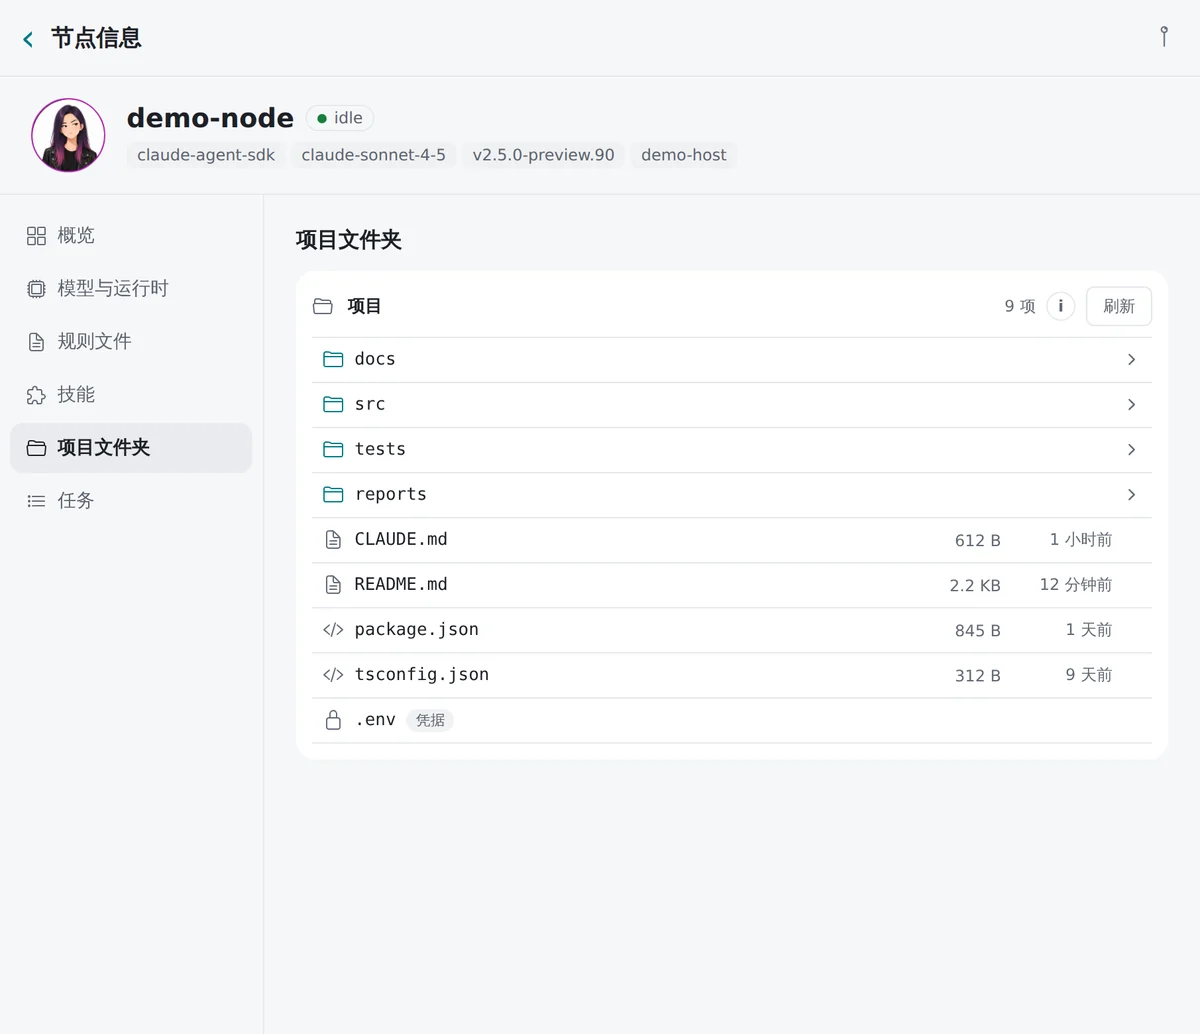
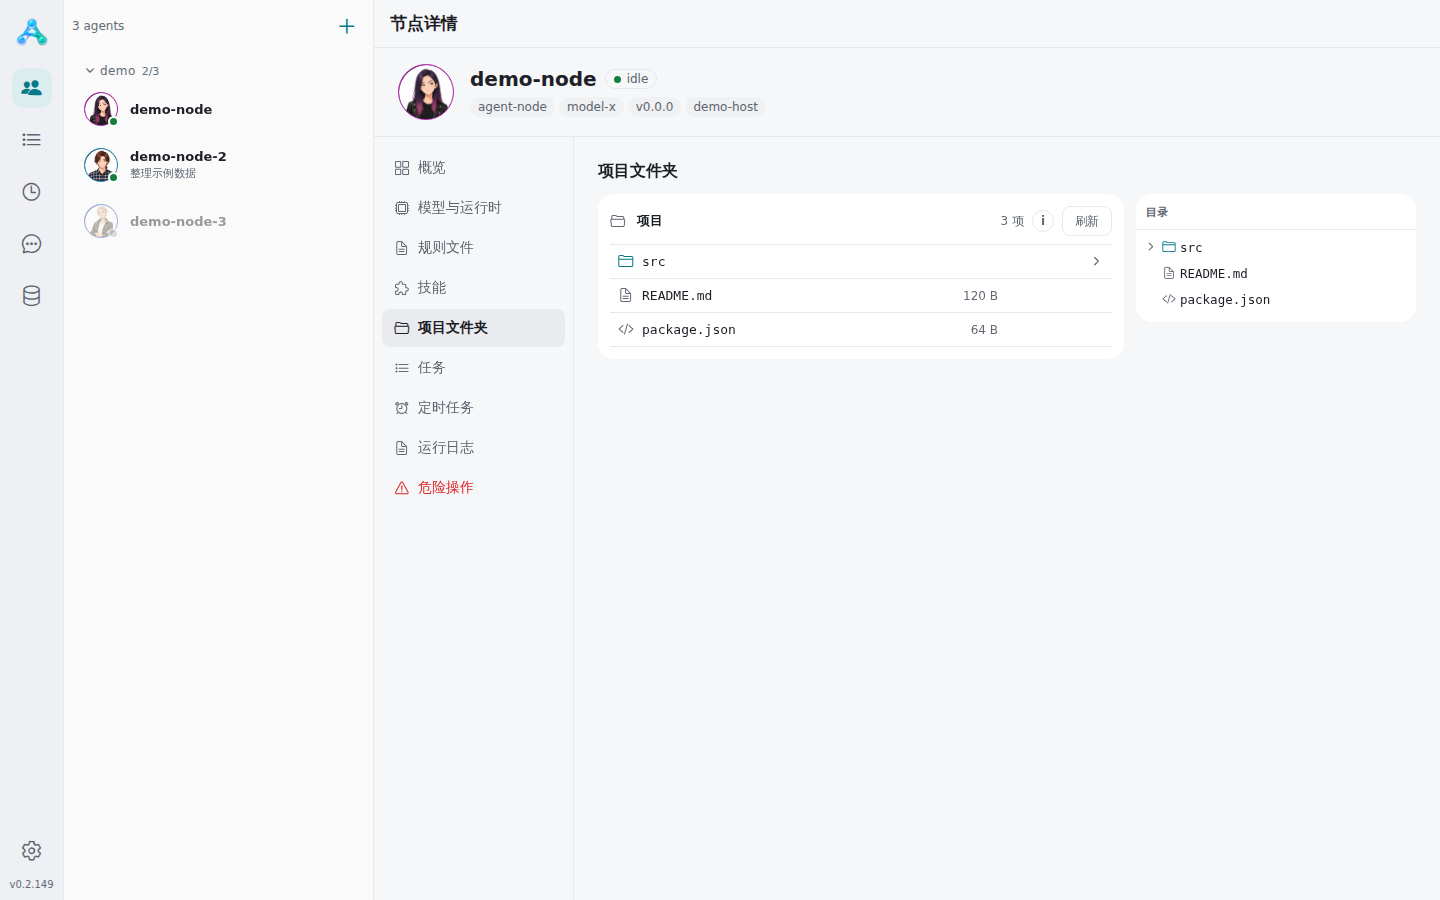
docs(readme): 换成当前桌面截图，并补上任务页
聊天、规则文件、项目文件夹换成当前界面；新增任务看板。只用占位名。

diff --git a/README.md b/README.md
@@ -20,6 +20,8 @@
   <img src="docs/assets/readme/chat-light.webp" width="880" alt="Agent Network 桌面端：左侧是在线 Agent 列表，右侧是与一个节点的对话">
 </picture>
 
+<picture><source media="(prefers-color-scheme: dark)" srcset="docs/assets/readme/tasks-dark.webp"><img src="docs/assets/readme/tasks-light.webp" width="880" alt="桌面端任务页：左侧按项目筛选，右侧是需求池、进行中、完成三列看板"></picture>
+
 </div>
 
 ## 为什么用 Agent Network

diff --git a/README.en.md b/README.en.md
@@ -20,6 +20,8 @@
   <img src="docs/assets/readme/chat-light.webp" width="880" alt="Agent Network desktop app: online agents on the left, a conversation with one node on the right">
 </picture>
 
+<picture><source media="(prefers-color-scheme: dark)" srcset="docs/assets/readme/tasks-dark.webp"><img src="docs/assets/readme/tasks-light.webp" width="880" alt="Desktop Tasks page: project filters on the left, and columns for Backlog, In progress and Done"></picture>
+
 </div>
 
 ## Why Agent Network
